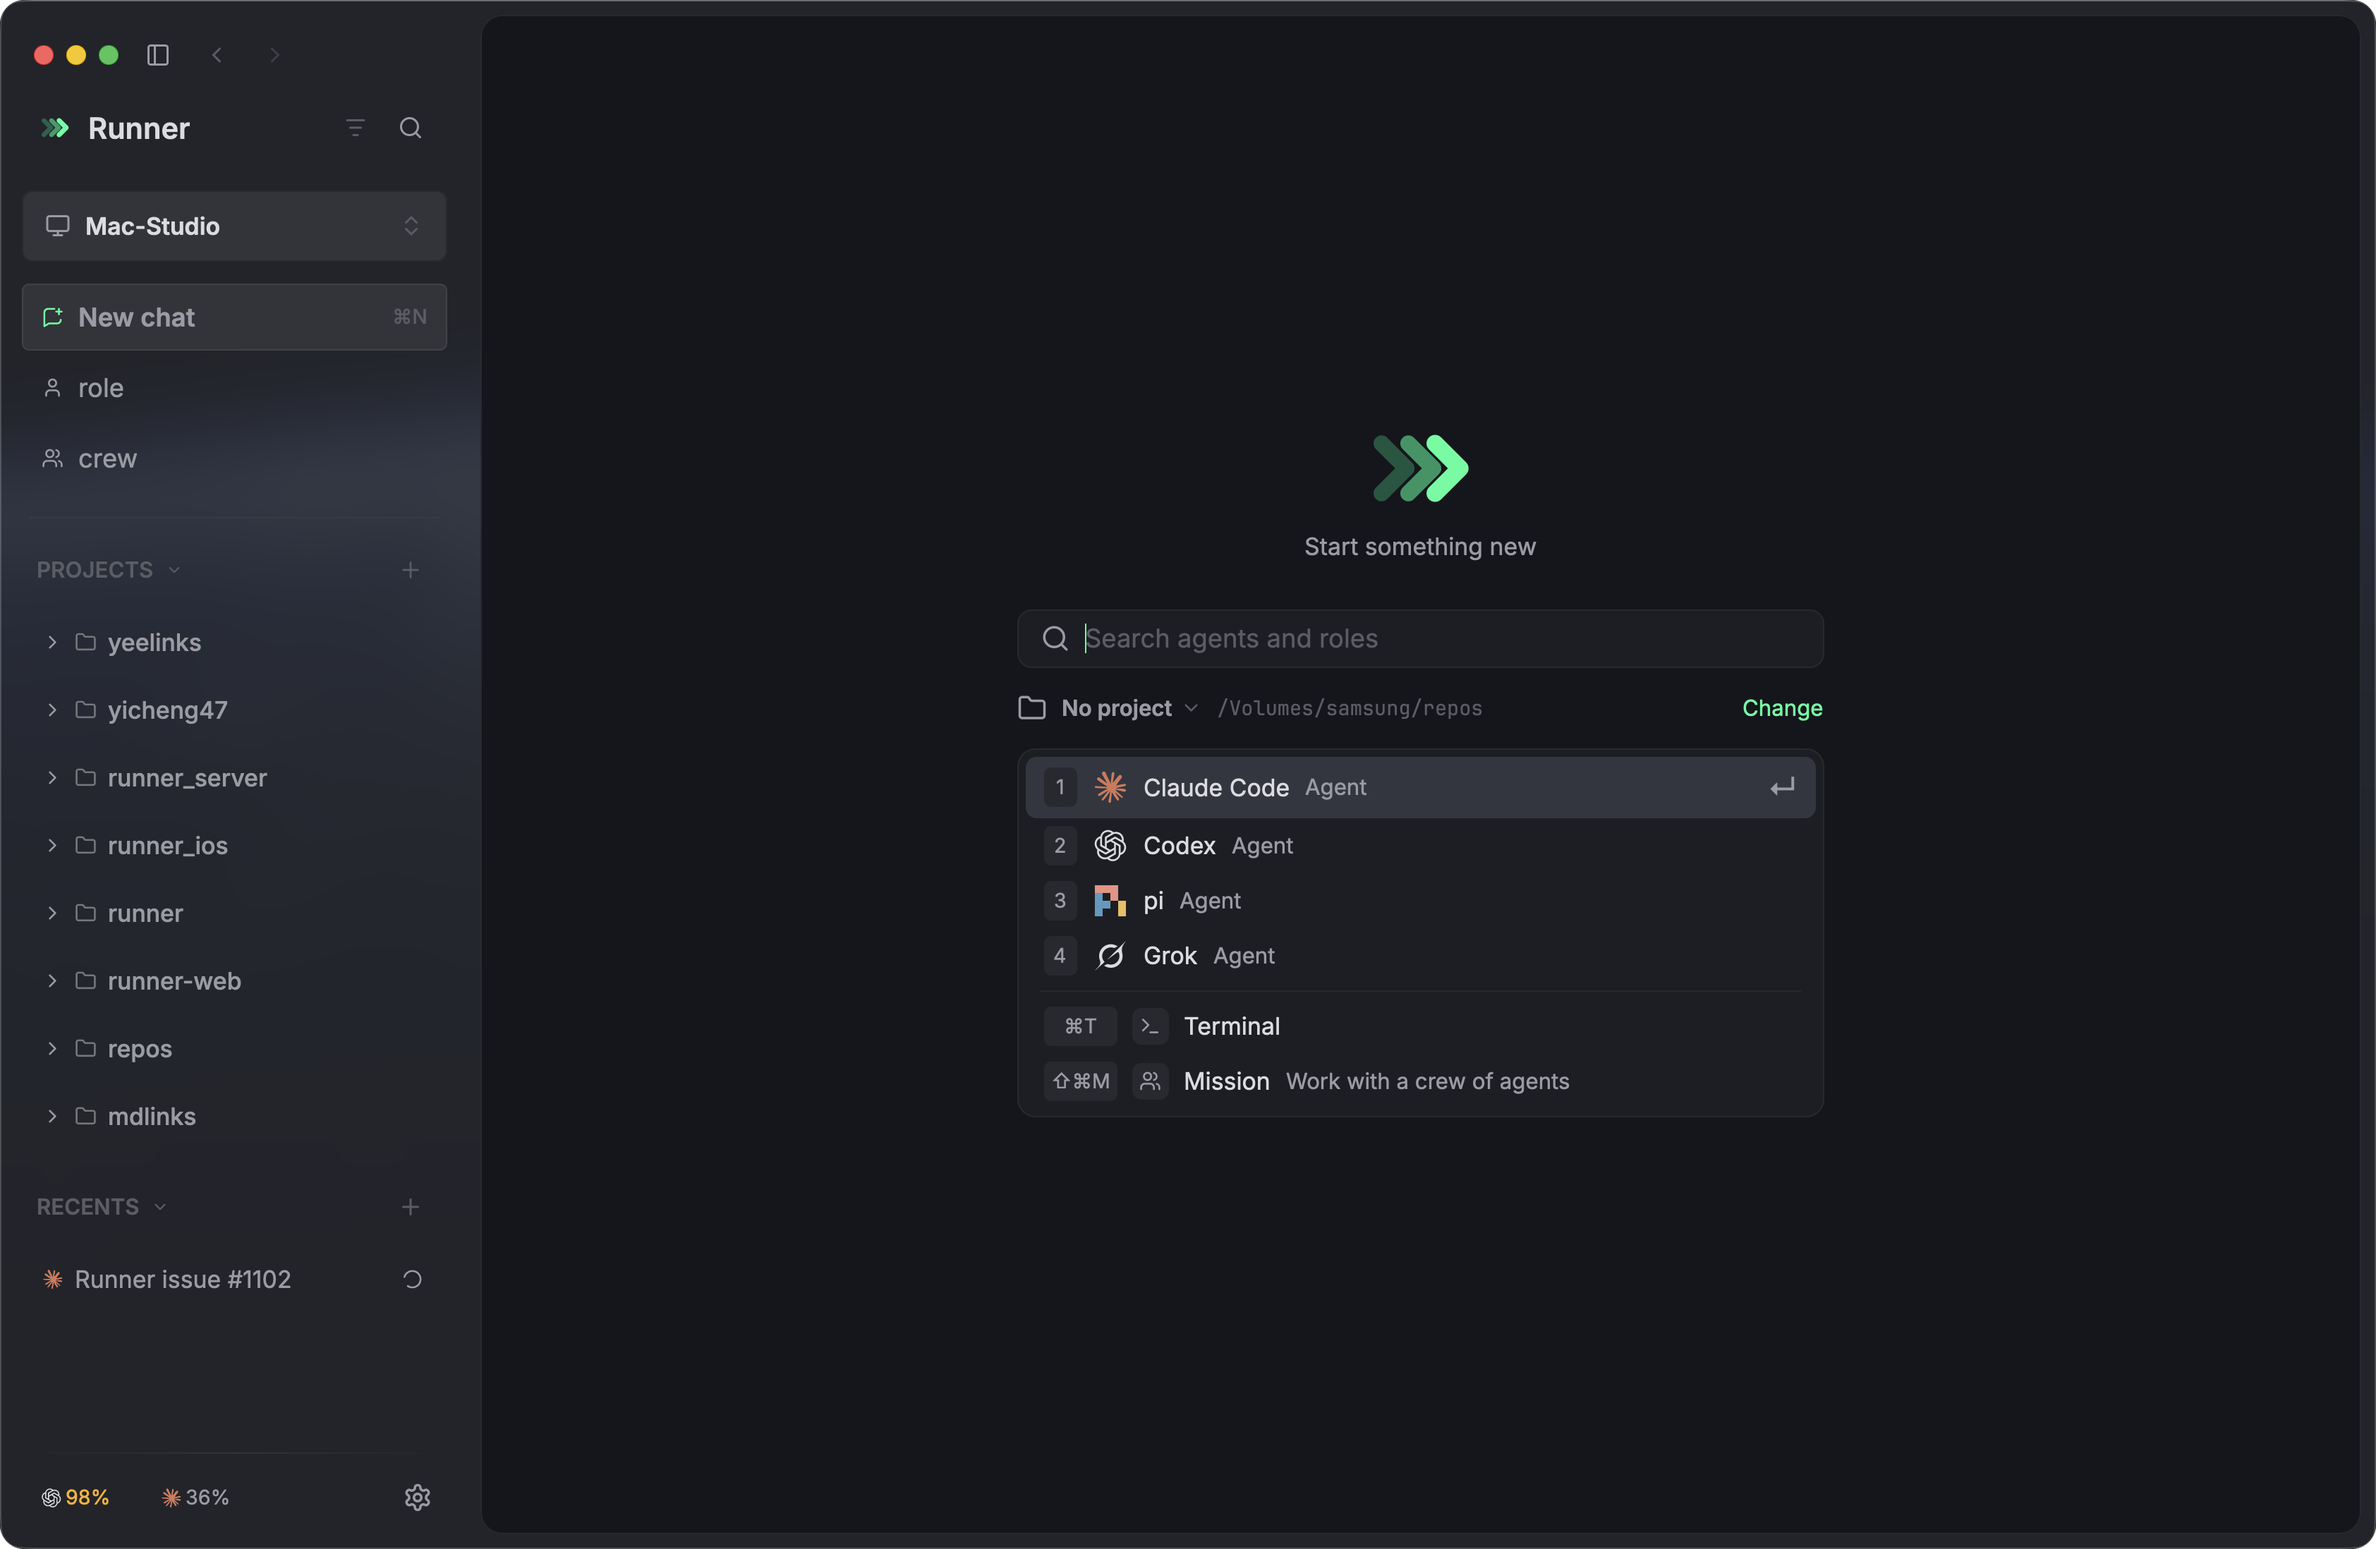
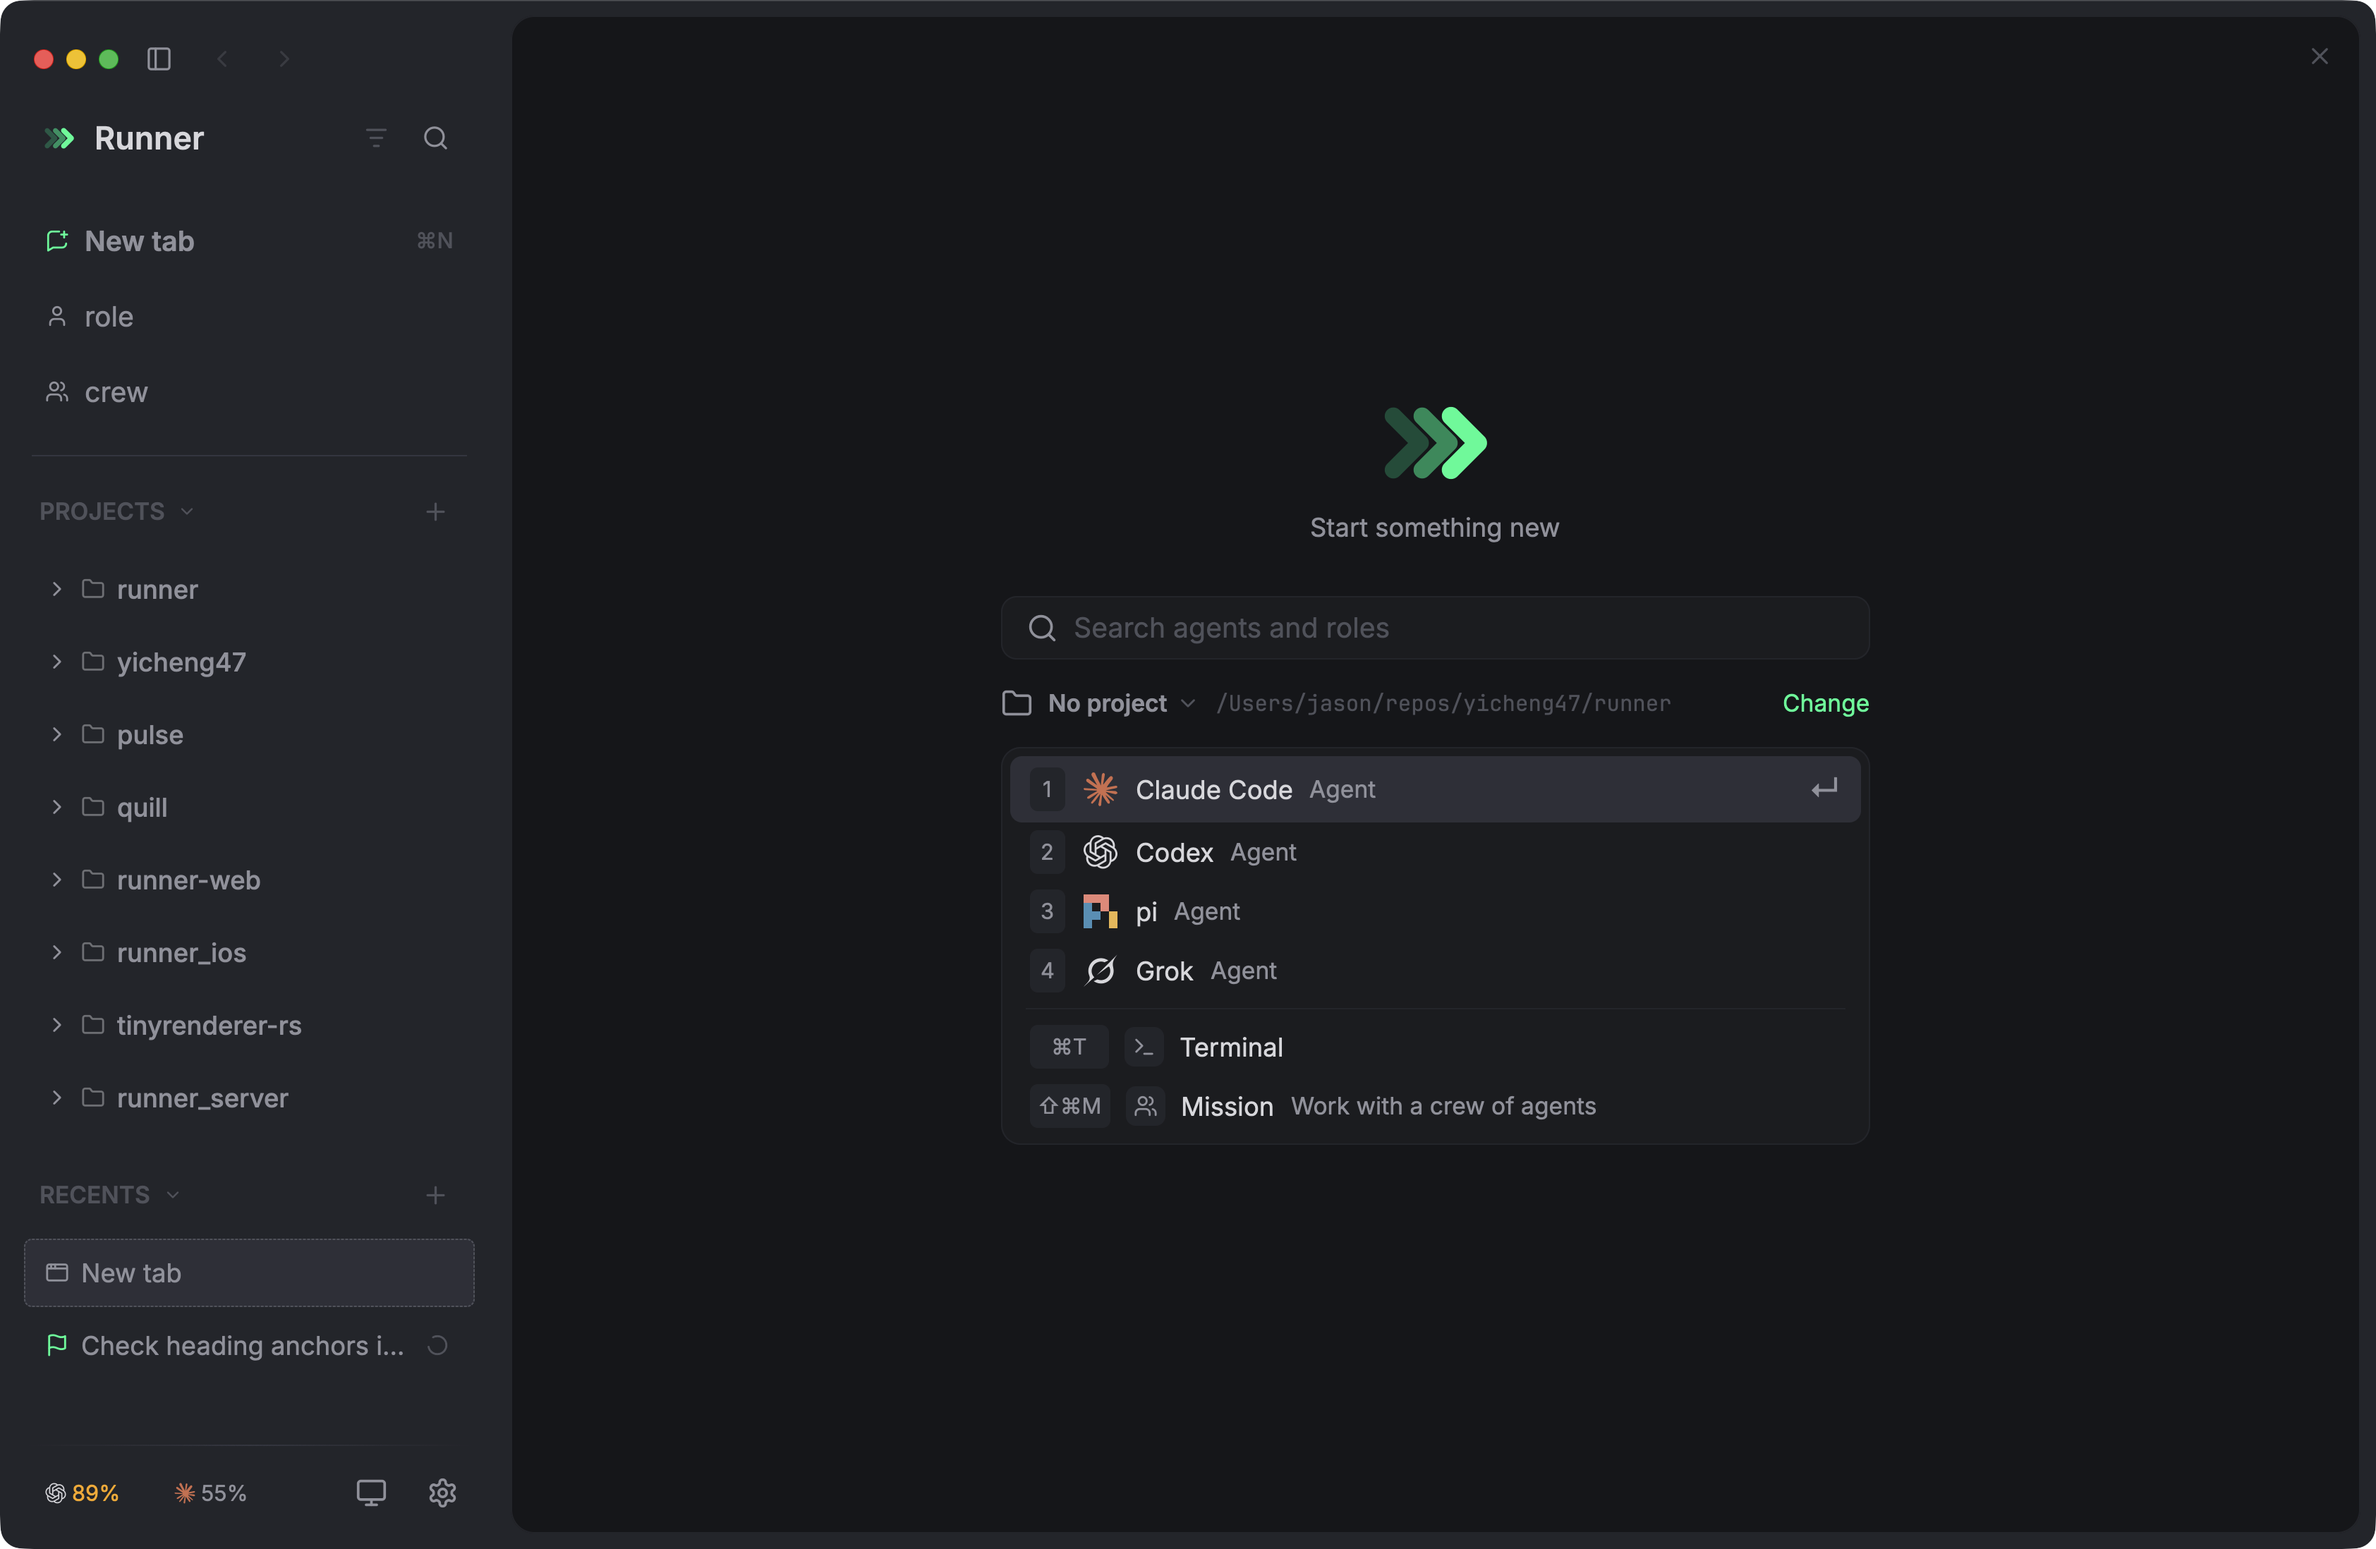
docs: refresh the README screenshots and WeChat QR code for 0.19.4
Retake every README screenshot from the 0.19.4 development build in Solid: the start page, the footer host popup, the crew page, a four-way chat split, a mission feed and a member's terminal, and a chat that missions report back to, shown in the Active view. The old images showed the footer account circle and the full-width computer picker, both gone. Rename the linked-chat image to drop its 0.19.3 suffix, update the remote image's alt text, and replace the WeChat group QR code.

diff --git a/README.md b/README.md
@@ -80,7 +80,7 @@ Runner brings CLI coding agents together in reusable crews, with real terminals 
   </tr>
   <tr>
     <td width="50%" valign="middle">
-      <a href="assets/mission-link-reports-0.19.3.png"><img src="assets/mission-link-reports-0.19.3.png" alt="A Claude Code chat receiving two [runner] reports and answering each, with both missions grouped under it in the sidebar" width="100%" /></a>
+      <a href="assets/mission-link-reports.png"><img src="assets/mission-link-reports.png" alt="A Claude Code chat receiving two [runner] reports and answering each, with both missions grouped under it in the sidebar" width="100%" /></a>
     </td>
     <td width="50%" valign="middle">
       <h3>Missions report back to their chat</h3>
@@ -89,7 +89,7 @@ Runner brings CLI coding agents together in reusable crews, with real terminals 
   </tr>
   <tr>
     <td width="50%" valign="middle">
-      <a href="assets/remote_control.png"><img src="assets/remote_control.png" alt="Runner's computer picker listing this Mac and another computer on the same account" width="100%" /></a>
+      <a href="assets/remote_control.png"><img src="assets/remote_control.png" alt="The sidebar footer's host button open, listing this Mac first and the other computers on the same account" width="100%" /></a>
     </td>
     <td width="50%" valign="middle">
       <h3>Remote control</h3>

diff --git a/README.zh-CN.md b/README.zh-CN.md
@@ -80,7 +80,7 @@ Runner 让命令行编码 agent 通过可复用的 crew、真实终端和共享 
   </tr>
   <tr>
     <td width="50%" valign="middle">
-      <a href="assets/mission-link-reports-0.19.3.png"><img src="assets/mission-link-reports-0.19.3.png" alt="Claude Code chat 收到两条 [runner] 汇报并逐条回答，两个 mission 分组显示在侧边栏的 chat 下面" width="100%" /></a>
+      <a href="assets/mission-link-reports.png"><img src="assets/mission-link-reports.png" alt="Claude Code chat 收到两条 [runner] 汇报并逐条回答，两个 mission 分组显示在侧边栏的 chat 下面" width="100%" /></a>
     </td>
     <td width="50%" valign="middle">
       <h3>Mission 向 chat 汇报</h3>
@@ -89,7 +89,7 @@ Runner 让命令行编码 agent 通过可复用的 crew、真实终端和共享 
   </tr>
   <tr>
     <td width="50%" valign="middle">
-      <a href="assets/remote_control.png"><img src="assets/remote_control.png" alt="Runner 的电脑选择器列出这台 Mac 和同一账号下的另一台电脑" width="100%" /></a>
+      <a href="assets/remote_control.png"><img src="assets/remote_control.png" alt="侧边栏底部的主机按钮已展开，这台 Mac 排在首位，下面是同一账号下的其他电脑" width="100%" /></a>
     </td>
     <td width="50%" valign="middle">
       <h3>远程控制</h3>
